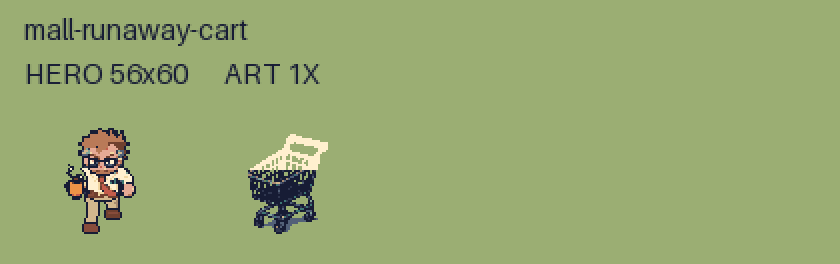
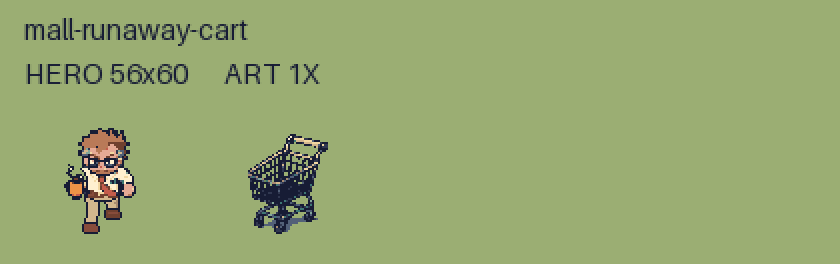
Fix Codex review notes on town art (PR #8)

Changed region(s): [[0.3095, 0.5152, 0.4024, 0.6667]]

diff --git a/assets/stage/home/v4/town/prepare.py b/assets/stage/home/v4/town/prepare.py
@@ -1,6 +1,7 @@
 """Prepare painted Town Buildings assets. No world artwork is drawn by code.
 Run: python prepare.py. Requires Pillow and NumPy. Outputs a fresh deliver/ folder.
 """
+import os
 from build import *
 
 def digest(path):return hashlib.sha256(path.read_bytes()).hexdigest()
@@ -197,7 +198,10 @@ def review(pieces):
             body+='</p></article>'
         body+='</section>'
     body+='<p>Overlay annotations: red rectangles propose solid footprints, cream shows the feet line, orange marks the foot point. The marks are never added to the exported sprite. Ground plates are opaque; isolated objects and overhead layers retain transparency. Runtime routes and depth sorting await integration.</p>'
-    (OUT/'review.html').write_text('<!doctype html><html lang="en"><meta charset="utf-8"><meta name="viewport" content="width=device-width,initial-scale=1"><title>Town Buildings art review</title><link rel="stylesheet" href="../../../../ui/ms-tokens.css"><style>'+css+'</style><main>'+body+'</main></html>')
+    (OUT/'review.html').write_text('<!doctype html><html lang="en"><meta charset="utf-8"><meta name="viewport" content="width=device-width,initial-scale=1"><title>Town Buildings art review</title><link rel="stylesheet" href="'+TOKENS_HREF+'"><style>'+css+'</style><main>'+body+'</main></html>')
+
+# Token stylesheet path relative to wherever review.html is written (deliver/ adds a level).
+TOKENS_HREF=os.path.relpath(Path(__file__).resolve().parents[4]/'ui'/'ms-tokens.css',OUT.resolve())
 
 def main():
     for folder in ['sources','working','checks','reference']:(OUT/folder).mkdir(parents=True,exist_ok=True)

diff --git a/assets/stage/home/v4/town/build.py b/assets/stage/home/v4/town/build.py
@@ -66,7 +66,7 @@ def material_map(a,id):
     if id in ['mall-runaway-cart','mall-trash-can']:
         # Map existing upper metal glints to the cream breakable cue.
         visible=a[:,:,3]>=128;rows=np.where(visible)[0];top=int(rows.min());bottom=int(rows.max())+1
-        yy=np.indices(visible.shape)[0];lum=a[:,:,0]*.2126+a[:,:,1]*.7152+a[:,:,2]*.0722
+        yy=np.indices(visible.shape)[0];lum=(a[:,:,0]*.2126+a[:,:,1]*.7152+a[:,:,2]*.0722)/255  # 0-1 scale to match thresholds
         glint=visible&(yy<top+round((bottom-top)*.35))&(lum>.38)
         result[glint,:3]=RGB[6];result[glint&(lum>.48),:3]=RGB[7];result[glint&(lum>.65),:3]=RGB[8]
     if id in ASPHALT:
